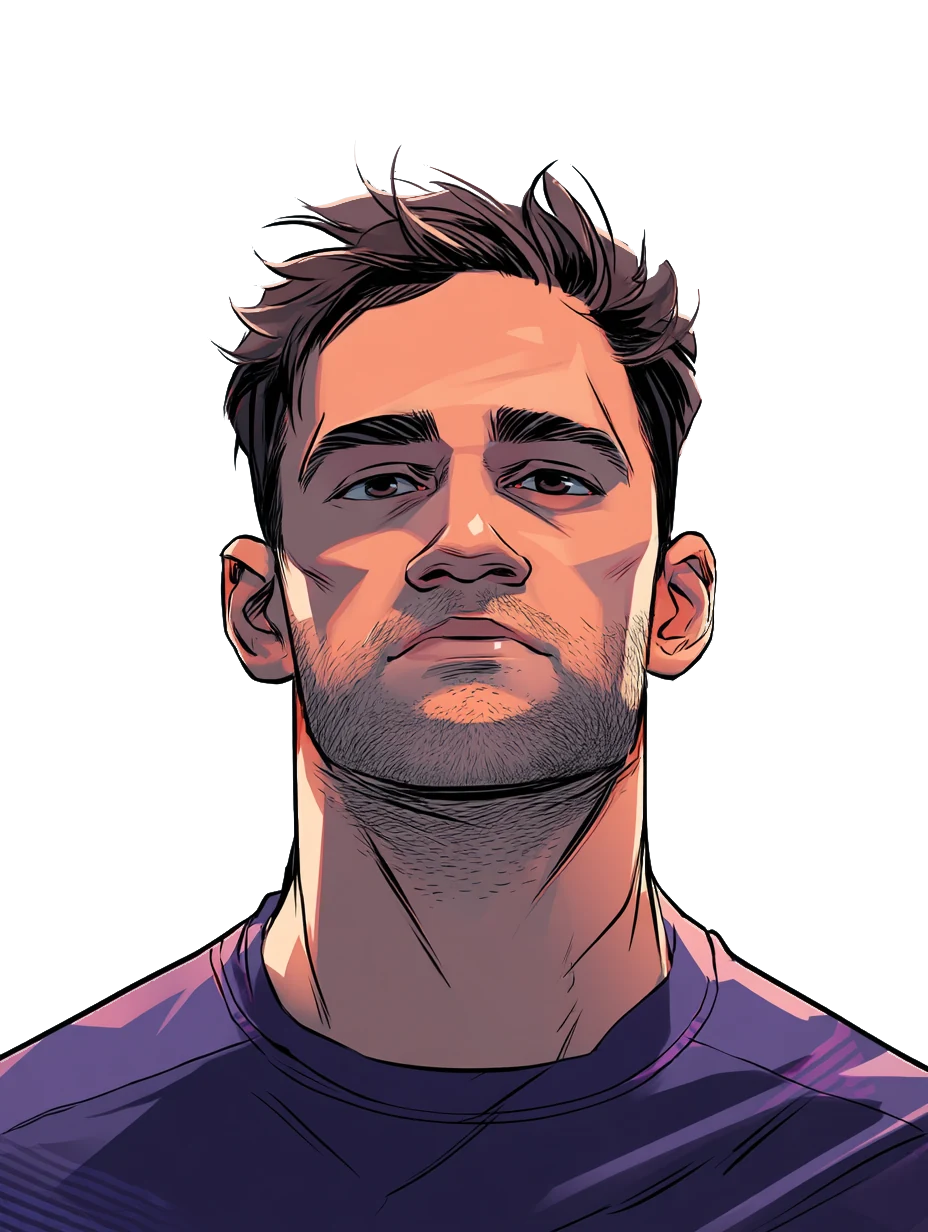
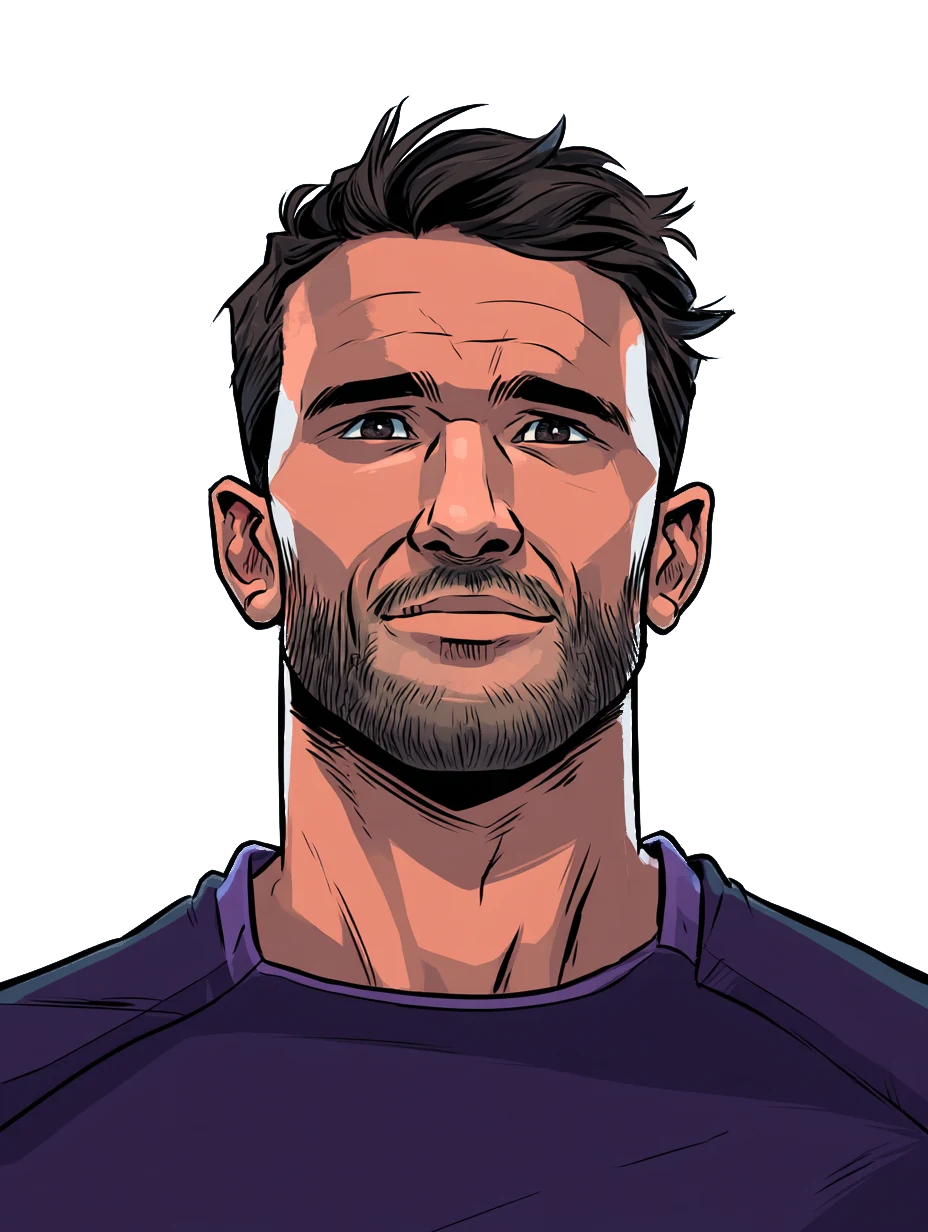
Nantes : trois cartes permutees, et un menton detecte trop haut
Tarrafeta, Tournat et Lagarde portaient chacun le visage d'un autre. La cause
est celle qui avait deja mordu a Montpellier : les trois ont EXACTEMENT la
meme description dans data/hair.json -- "short dark brown hair" et une barbe
courte. Trois bruns barbus de la meme equipe, aucun signal pour les separer.
Les 17 Nantais ont ete revus un par un, les 14 autres sont bons.

Cadrage. Sur un rendu cadre tres serre, les epaules montent jusqu'a la
machoire : il n'y a plus d'etranglement du cou, et le minimum du profil tombe
a hauteur de BOUCHE. Le visage est alors pris pour la tete entiere, la carte
agrandie d'un tiers, et le menton passe sous le bandeau -- "on ne voit pas
leur cou" etait litteralement vrai (Brasseleur, Kamtchop Baril). On exige
desormais que le creux soit a au moins 65 % du chemin vers les epaules, sinon
on retombe sur le repli anatomique. Mediane mesuree sur les 258 rendus : 0,73.

26 cartes changent. Les six cas les plus marginaux ont ete regardes, la ou le
repli aurait pu faire pire -- Guigon, Konan, Grebille, Tissot, Rodriguez Lario,
Ivah : toutes s'ameliorent aussi.

Au passage : finalize_s2.py sans --force reutilise le cutout existant, donc
une permutation d'image_file laisse trois cutouts perimes. Verifie apres coup
sur les 256, il n'en reste aucun.

diff --git a/utils/card_renderer.py b/utils/card_renderer.py
@@ -97,6 +97,7 @@ BUSTE_ALPHA_MIN = 128
 _BUSTE_PROFIL_H = 256     # hauteur de travail de l'analyse de silhouette
 _BUSTE_LISSAGE = 5        # moyenne glissante sur le profil reduit, en lignes
 _BUSTE_CREUX = 0.88       # le cou doit etre 12 % plus etroit que la tete pour etre cru
+_BUSTE_MENTON_MIN = 0.65  # ...et se trouver au moins a 65 % du chemin vers les epaules
 LOGO_SIZE = 180           # taille de l'ecusson dans le bandeau
 DISC_R = 108              # rayon du disque blanc sous l'ecusson (suit la taille du logo)
 
@@ -395,6 +396,15 @@ def _menton(alpha, bb):
     # Oreilles : ligne la plus large au-dessus du cou. Il faut un vrai creux dessous.
     y_or = max(range(y_cou), key=lambda y: lisse[y])
     if not (y_or < y_cou and lisse[y_cou] < _BUSTE_CREUX * lisse[y_or]):
+        return repli
+    # Un menton ne peut pas etre juste sous les oreilles. Quand le rendu est cadre si
+    # serre que les epaules montent jusqu'a la machoire, il n'y a plus d'etranglement du
+    # tout : le minimum du profil tombe alors a hauteur de BOUCHE, le visage est pris
+    # pour la tete entiere et la carte se retrouve agrandie d'un tiers, menton hors du
+    # cadre (Brasseleur, Kamtchop Baril). On exige donc que le creux soit assez bas par
+    # rapport aux epaules. Mediane mesuree sur les 258 rendus : 0,73 ; en dessous de
+    # 0,65 la detection est fausse une fois sur deux, et le repli anatomique fait mieux.
+    if y_cou / y_ep < _BUSTE_MENTON_MIN:
         return repli
     return int(round(y_cou * ech)), lisse[y_cou], True
 
